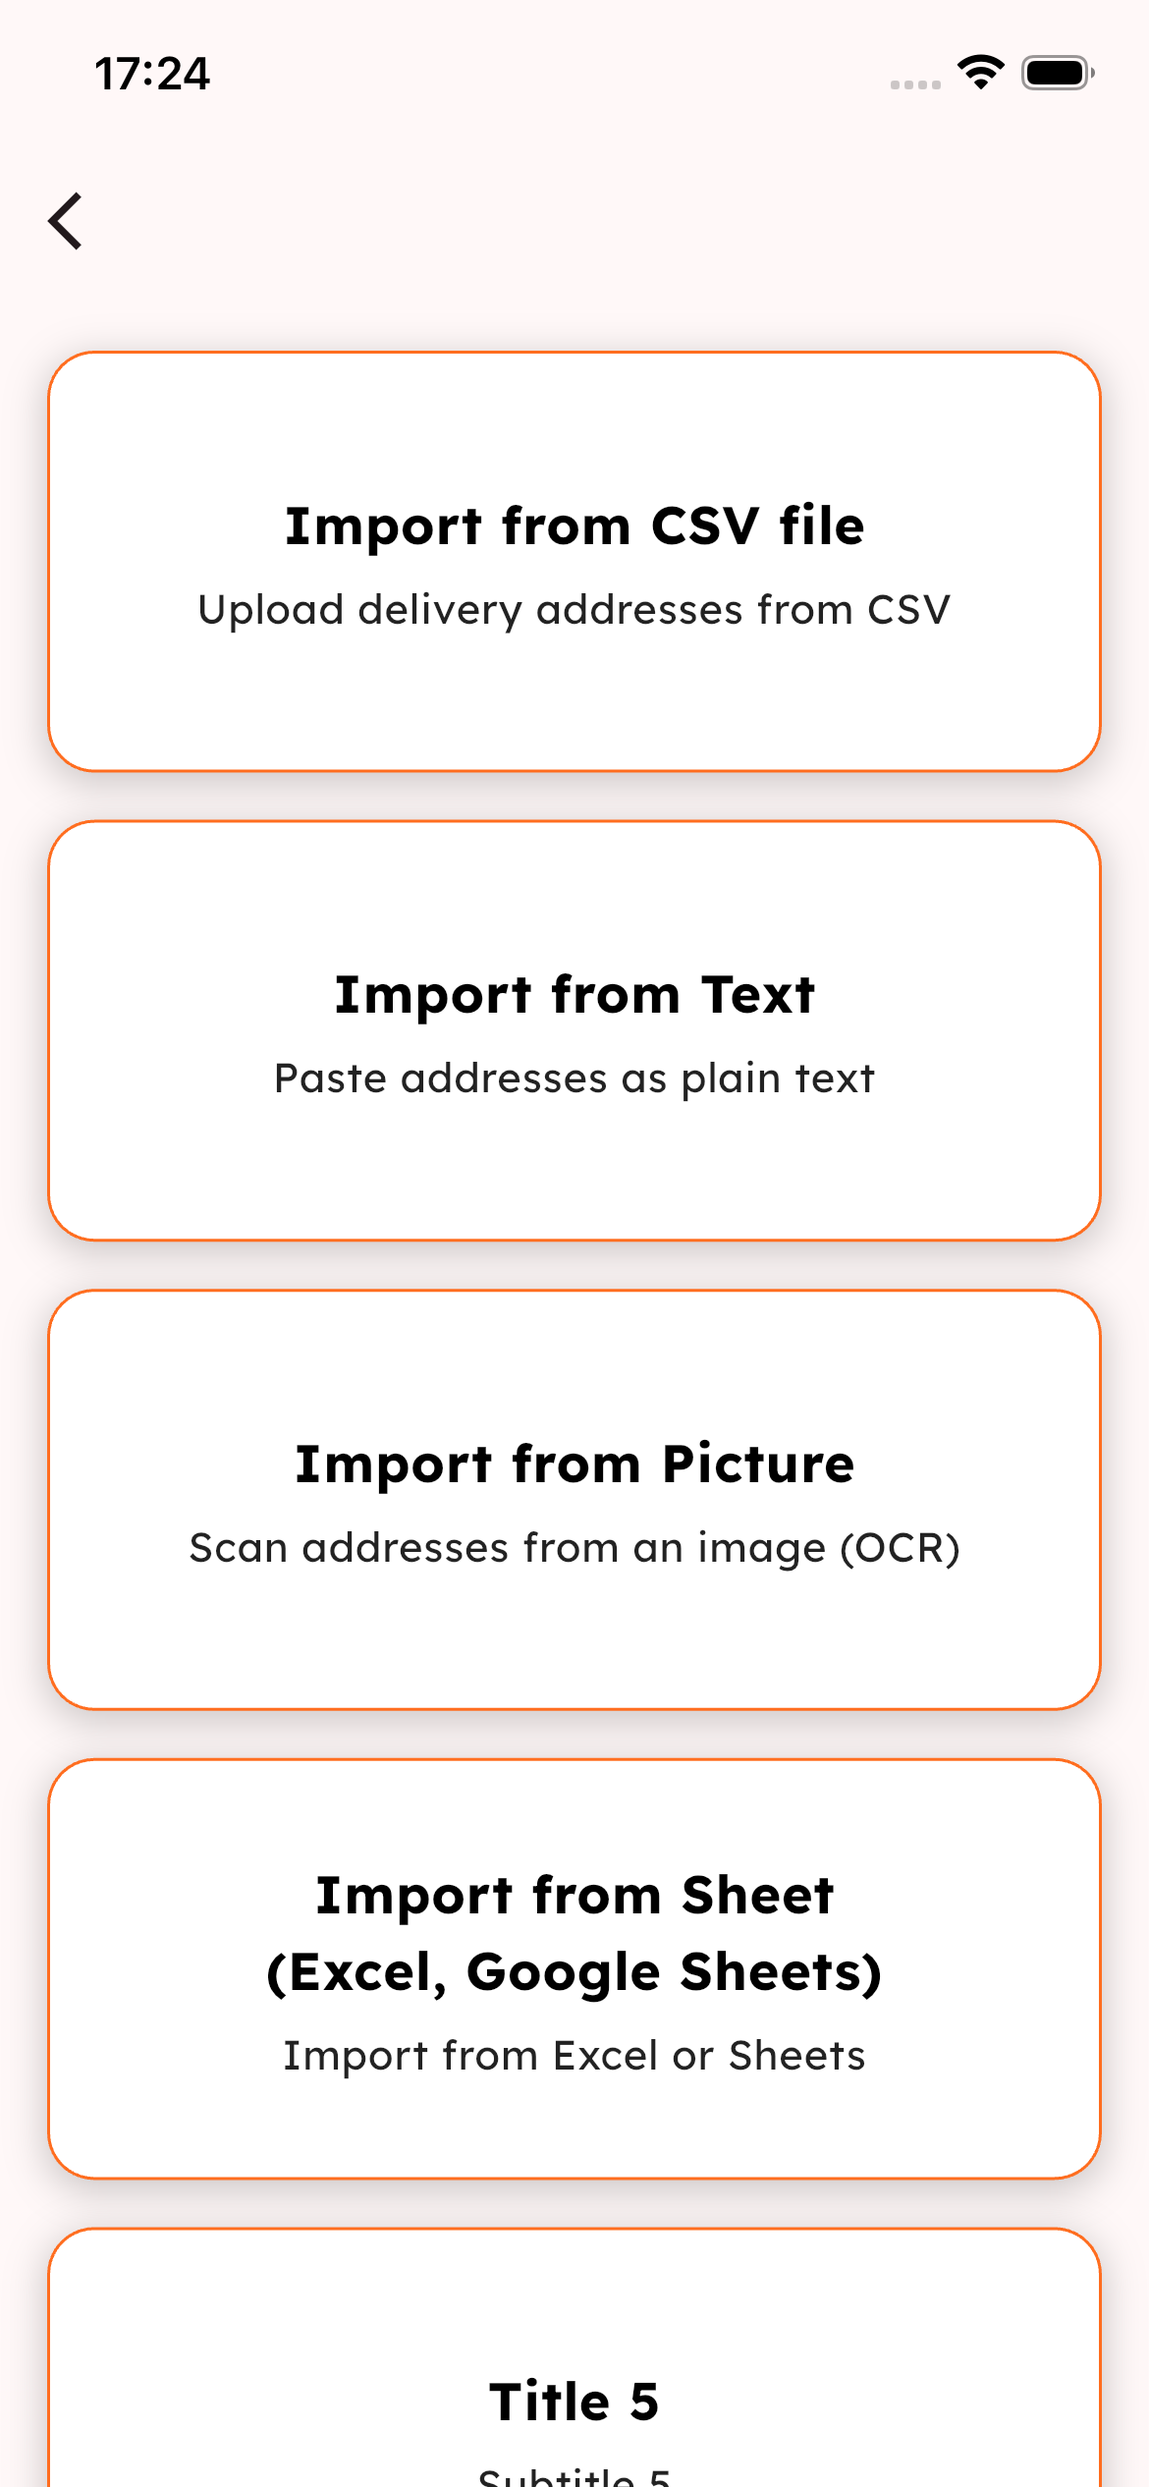
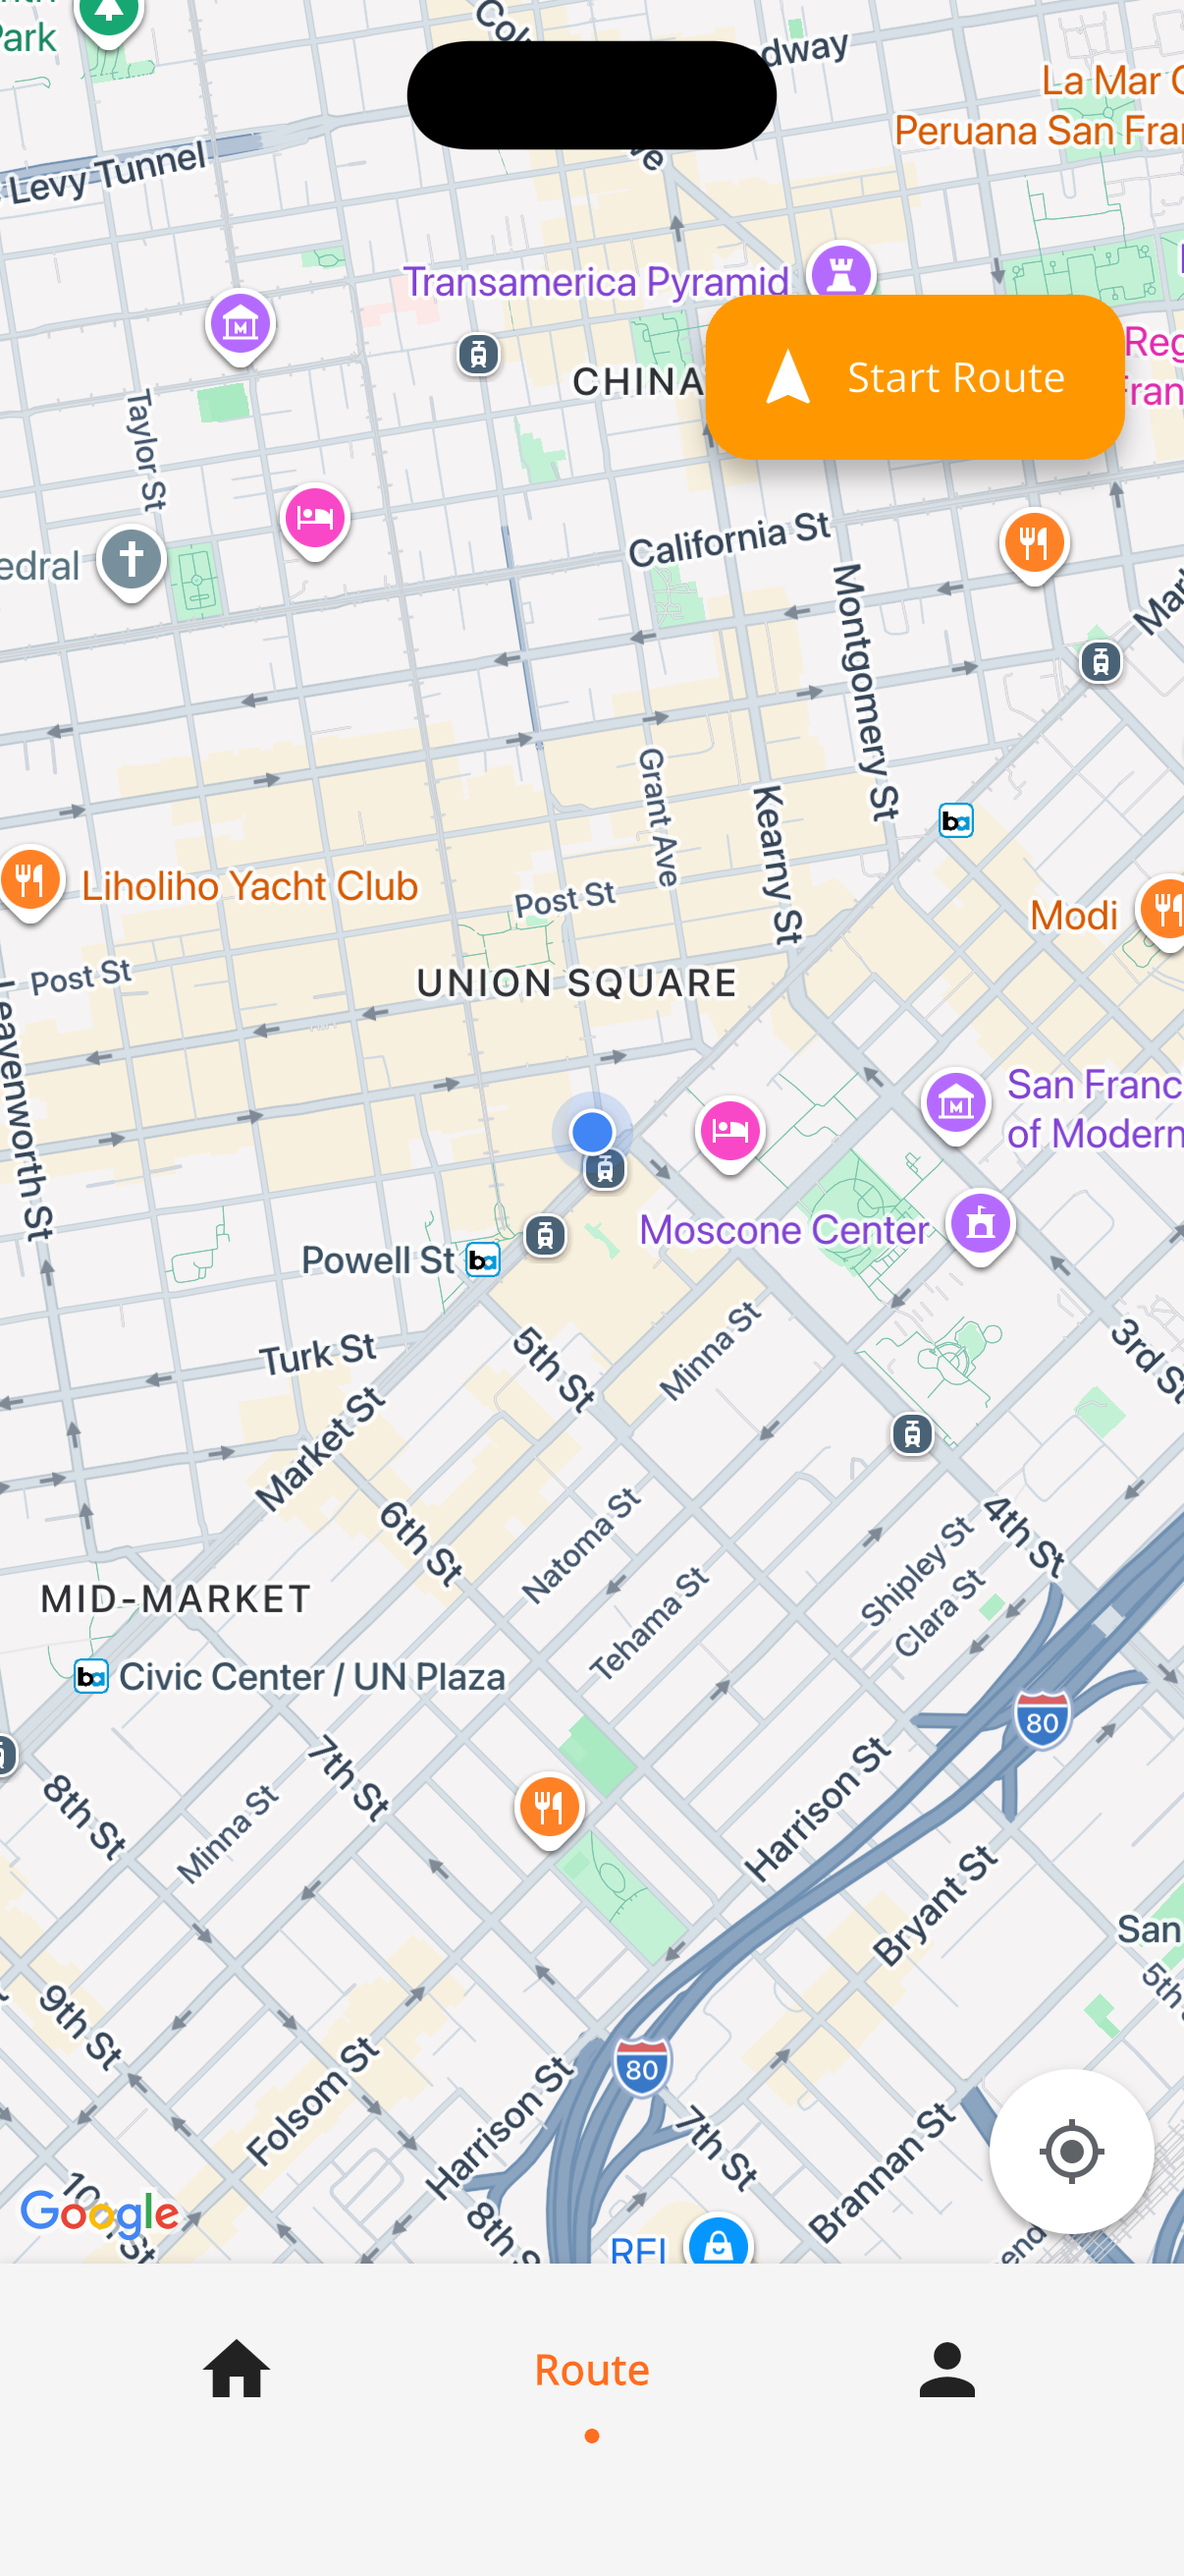
refactor: restructure project architecture and modularize home features

diff --git a/lib/features/home/pages/home_page.dart b/lib/features/home/pages/home_page.dart
@@ -85,25 +85,25 @@ class _HomePageState extends State<HomePage> {
                   childAspectRatio: 1.2,
                   children: [
                     buildSmallStatCard(
-                      "Toplam Kazanç",
+                      "Total Revenue",
                       "$currency${totalEarnings.toStringAsFixed(0)}",
                       Icons.monetization_on_outlined,
                       Colors.green,
                     ),
                     buildSmallStatCard(
-                      "Teslimat",
+                      "Deliveries",
                       "$completedDeliveries",
                       Icons.local_shipping,
                       Colors.blue,
                     ),
                     buildSmallStatCard(
-                      "Mesafe",
+                      "Distance",
                       "145km",
                       Icons.route,
                       Colors.purple,
                     ),
                     buildSmallStatCard(
-                      "Saat",
+                      "Duration",
                       "32h",
                       Icons.access_time,
                       Colors.orange,

diff --git a/lib/features/navigation/pages/route_page.dart b/lib/features/navigation/pages/route_page.dart
@@ -90,7 +90,7 @@ class _RoutePageState extends State<RoutePage> {
               backgroundColor: Colors.orange, // Senin temanla uyumlu renk
               icon: const Icon(Icons.navigation, color: Colors.white),
               label: const Text(
-                "Rotaya Başla",
+                "Start Route",
                 style: TextStyle(color: Colors.white),
               ),
             ),

diff --git a/README.md b/README.md
@@ -191,45 +191,60 @@ Uygulama **Flutter & Dart** teknolojileri ile geliştirilmektedir.
 
 lib/
 ├── core/
-│    ├── colors/
-│    │     └── app_colors.dart
-│    ├── services/
-│    │     └── directory_file.dart
-│    └── utils/
-│          └── (helper functions)
+│   ├── colors/
+│   │   └── app_colors.dart
+│   ├── excel/
+│   │   └── excel_parser.dart
+│   ├── geocoding/
+│   │   └── geocoding_service.dart
+│   ├── services/
+│   │   └── directory_file.dart
+│   └── theme/
+│       └── app_borders.dart
 │
 ├── features/
-│    ├── onboarding/
-│    │     ├── pages/
-│    │     │     ├── splash_screen.dart
-│    │     │     ├── onboarding_page.dart
-│    │     │     └── welcome_page.dart
-│    │     └── widgets/
+│   ├── auth/
+│   │   ├── pages/
+│   │   │   ├── reset-password/
+│   │   │   │   ├── forgot_password.dart
+│   │   │   │   ├── new_password.dart
+│   │   │   │   └── verify_page.dart
+│   │   │   ├── auth_landing_page.dart
+│   │   │   ├── login_page.dart
+│   │   │   └── signup_page.dart
+│   │   └── widgets/
+│   │
+│   ├── home/
+│   │   ├── pages/
+│   │   │   ├── create_route_page.dart
+│   │   │   └── home_page.dart
+│   │   └── widgets/
+│   │       ├── home_line_chart.dart
+│   │       └── stat_card.dart
+│   │
+│   ├── navigation/
+│   │   ├── pages/
+│   │   │   ├── app_shell.dart
+│   │   │   ├── edit_profile.dart
+│   │   │   ├── history_page.dart
+│   │   │   ├── profile_page.dart
+│   │   │   └── route_page.dart
+│   │   └── providers/
+│   │       └── navigation_provider.dart
+│   │
+│   ├── onboarding/
+│   │   └── pages/
+│   │       ├── onboarding_page.dart
+│   │       ├── splash_screen.dart
+│   │       └── welcome_page.dart
+│   │
+│   └── routes/
+│       ├── models/
+│       │   ├── delivery_stop.dart
+│       │   └── route_cards_model.dart
+│       └── widgets/
 │
-│    ├── auth/
-│    │     ├── pages/
-│    │     │     ├── login_page.dart
-│    │     │     └── auth_landing_page.dart
-│    │     └── widgets/
-│
-│    ├── home/
-│    │     ├── pages/
-│    │     │     └── home_page.dart
-│    │     └── widgets/
-│
-│    ├── navigation/
-│    │     ├── pages/
-│    │     │     ├── app_shell.dart
-│    │     │     ├── route_page.dart
-│    │     │     ├── history_page.dart
-│    │     │     └── profile_page.dart
-│    │     └── widgets/
-│
-│    ├── routes/
-│    │     ├── models/
-│    │     │     └── route_cards_model.dart
-│    │     └── widgets/
-│
+├── firebase_options.dart
 └── main.dart
 ```
 
